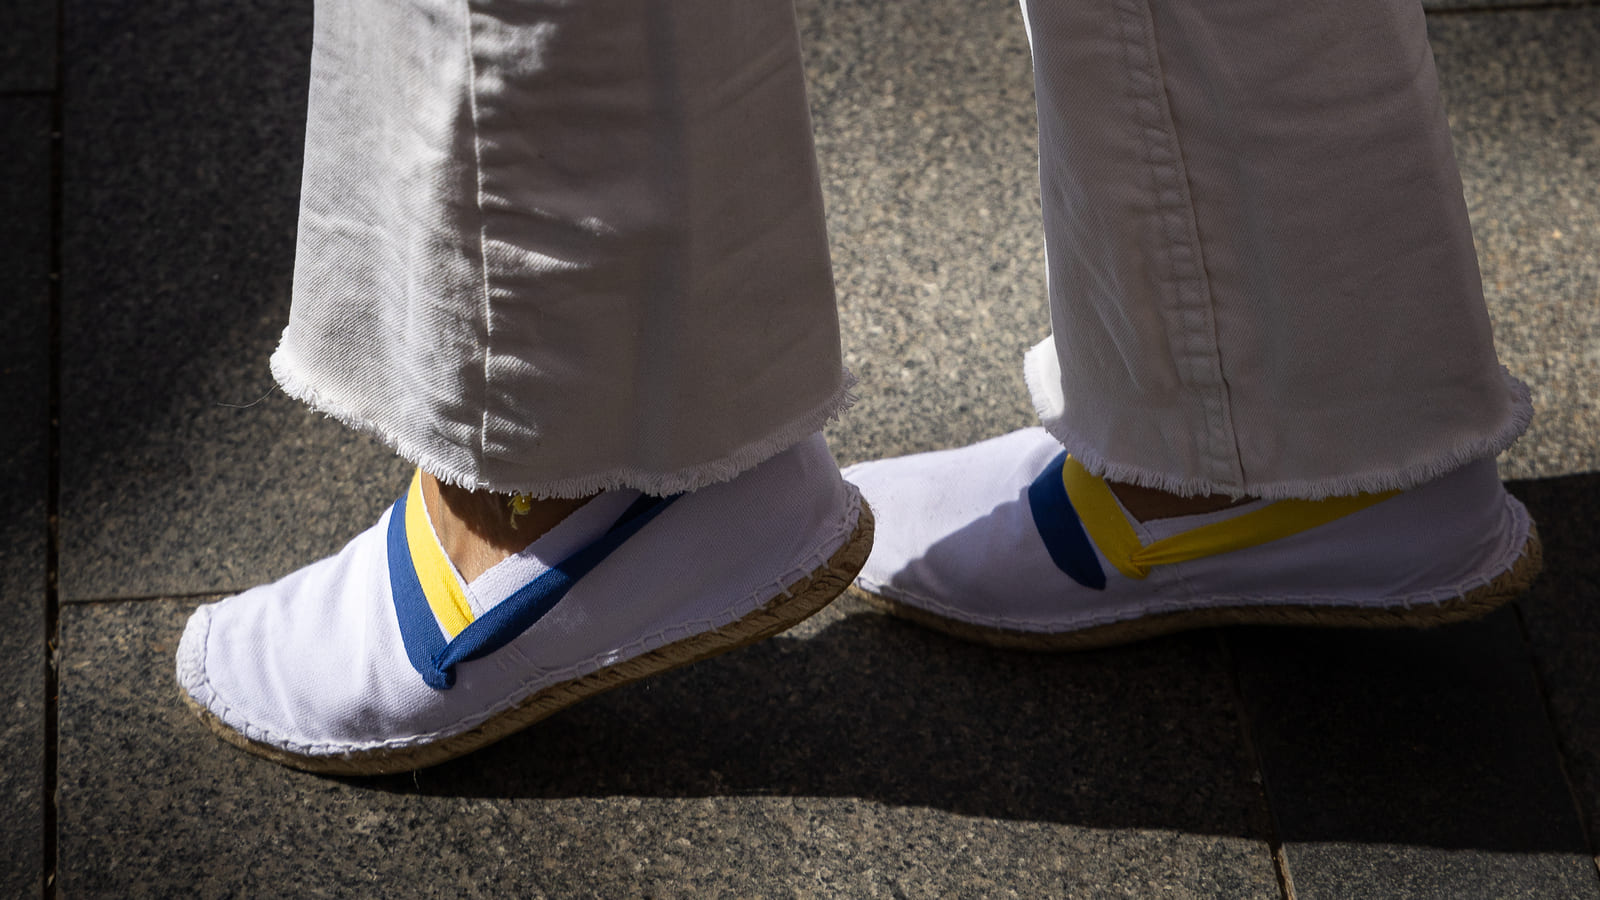
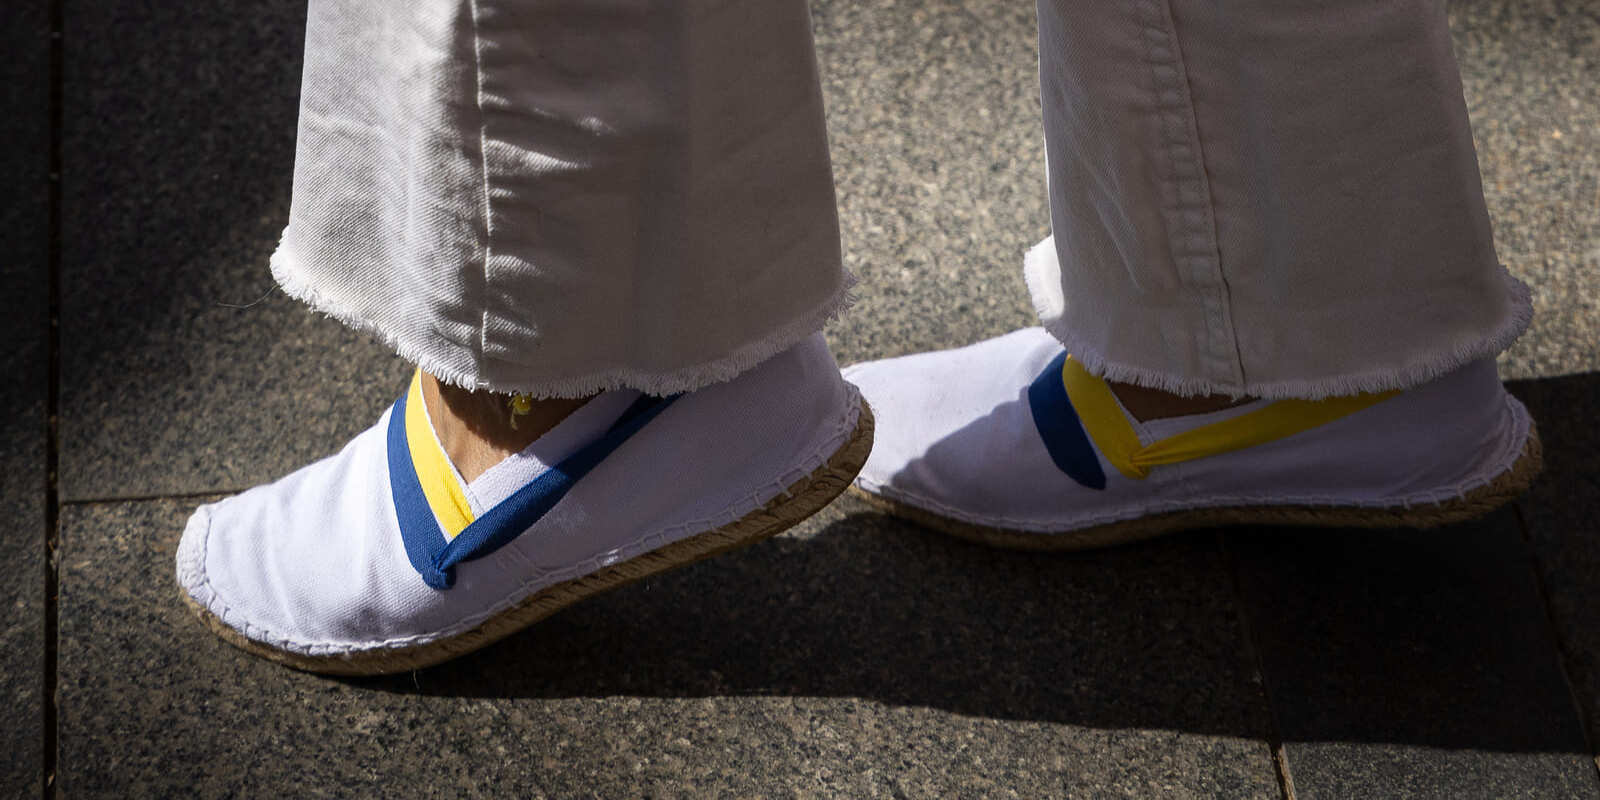
Actualitza menu i continguts de presentacio

Changed region(s): [[0.0, 0.0, 1.0, 1.0]]

diff --git a/frontend-sardanista/src/pages/Presentation/sections/Information.js b/frontend-sardanista/src/pages/Presentation/sections/Information.js
@@ -87,14 +87,14 @@ function Information() {
                   icon="school"
                   color="info"
                   title="Curset"
-                  description="Oferim classes de sardana per a tots els nivells. Aprendre els passos i la coreografia d'aquesta dansa tradicional en un ambient col·laboratiu i acollidor. Dimecres de 17 a 19h i dissabtes d'11 a 13h."
+                  description="Oferim classes de sardana per a tots els nivells. Aprendre els passos i la coreografia d'aquesta dansa tradicional en un ambient col·laboratiu i acollidor. Dimecres de 17 a 19h i dissabtes d'11 a 13h al Local de l'Agrupació de Cultura Popular."
                 />
               </Grid>
               <Grid item xs={12} md={6}>
                 <DefaultInfoCard
                   icon="people"
                   title="Trobades"
-                  description="Participem en ballades d'estiu, Festa Major d'Estiu i Hivern, i Sant Jordi. Fem sortides a ballades dels pobles veïns com Begues, Gavà i Viladecans per conèixer altres ballarins i reforçar la comunitat sardanista."
+                  description="Participem en ballades d'estiu, Festa Major d'Estiu i Hivern, Sant Jordi, l’Aplec de Bruguers i la Diada. Fem sortides a ballades dels pobles veïns com Begues, Gavà i Viladecans per conèixer altres ballarins i reforçar la comunitat sardanista."
                 />
               </Grid>
             </Grid>
@@ -103,14 +103,14 @@ function Information() {
                 <DefaultInfoCard
                   icon="event"
                   title="Actuacions i tallers"
-                  description="Organitzem actuacions públiques i tallers per apropar la sardana a tothom. Els nostres espectacles destaquen la dansa i la música tradicional, atraient un públic divers i contribuint a la difusió de la cultura catalana."
+                  description="Organitzem actuacions públiques i tallers per apropar la sardana a tothom, col·laborant amb el programa “Salut i diversió” de l’Ajuntament i anant a les escoles que ens ho demanen, tot destacant la dansa i la música tradicional per atraure un públic divers i difondre la cultura catalana."
                 />
               </Grid>
               <Grid item xs={12} md={6}>
                 <DefaultInfoCard
                   icon="favorite"
                   title="Tradició i comunitat"
-                  description="La sardana a Castelldefels té una història rica i vibrant. Organitzem conferències i tallers per enriquir el coneixement i apreciació d'aquesta disciplina musical i de dansa, preservant-la per a les futures generacions."
+                  description="La sardana a Castelldefels té una història rica i vibrant. Organitzem tallers per enriquir el coneixement i apreciació d'aquesta disciplina musical i de dansa, preservant-la per a les futures generacions."
                 />
               </Grid>
             </Grid>

diff --git a/frontend-sardanista/src/routes.js b/frontend-sardanista/src/routes.js
@@ -41,6 +41,7 @@ import Icon from "@mui/material/Icon";
 
 // Pages
 import AboutUs from "layouts/pages/landing-pages/about-us";
+import AgendaPage from "pages/agenda";
 import BlogPage from "pages/blog";
 import PaginaCurset from "pages/curset";
 import PaginaNeta from "pages/neta";
@@ -52,6 +53,12 @@ const routes = [
     icon: <Icon>groups</Icon>,
     route: "/quisom",
     component: <AboutUs />,
+  },
+  {
+    name: "Agenda",
+    icon: <Icon>event</Icon>,
+    route: "/agenda",
+    component: <AgendaPage />,
   },
   {
     name: "Blog",

diff --git a/frontend-sardanista/src/pages/Presentation/sections/Counters.js b/frontend-sardanista/src/pages/Presentation/sections/Counters.js
@@ -49,7 +49,7 @@ function Counters() {
             <DefaultCounterCard
               count={13}
               title="Ballades anuals"
-              description="Organitzem ballades d'estiu, participem en trobades i oferim 28 dies de curset per a nous sardanistes."
+              description="Organitzem ballades d'estiu, participem en trobades i oferim cursets per a nous sardanistes."
             />
           </Grid>
         </Grid>

diff --git a/frontend-sardanista/src/footer.routes.js b/frontend-sardanista/src/footer.routes.js
@@ -40,7 +40,7 @@ export default {
       name: "Nosaltres",
       items: [
         { name: "Qui som", href: "/quisom" },
-        { name: "Agenda", href: "/agenda" },
+        { name: "Pilar: 645 04 44 17", href: "tel:+34645044417" },
         { name: "Glòria: 616 43 01 48", href: "tel:+34616430148" },
         { name: "Pepa: 699 09 80 28", href: "tel:+34699098028" },
       ],
